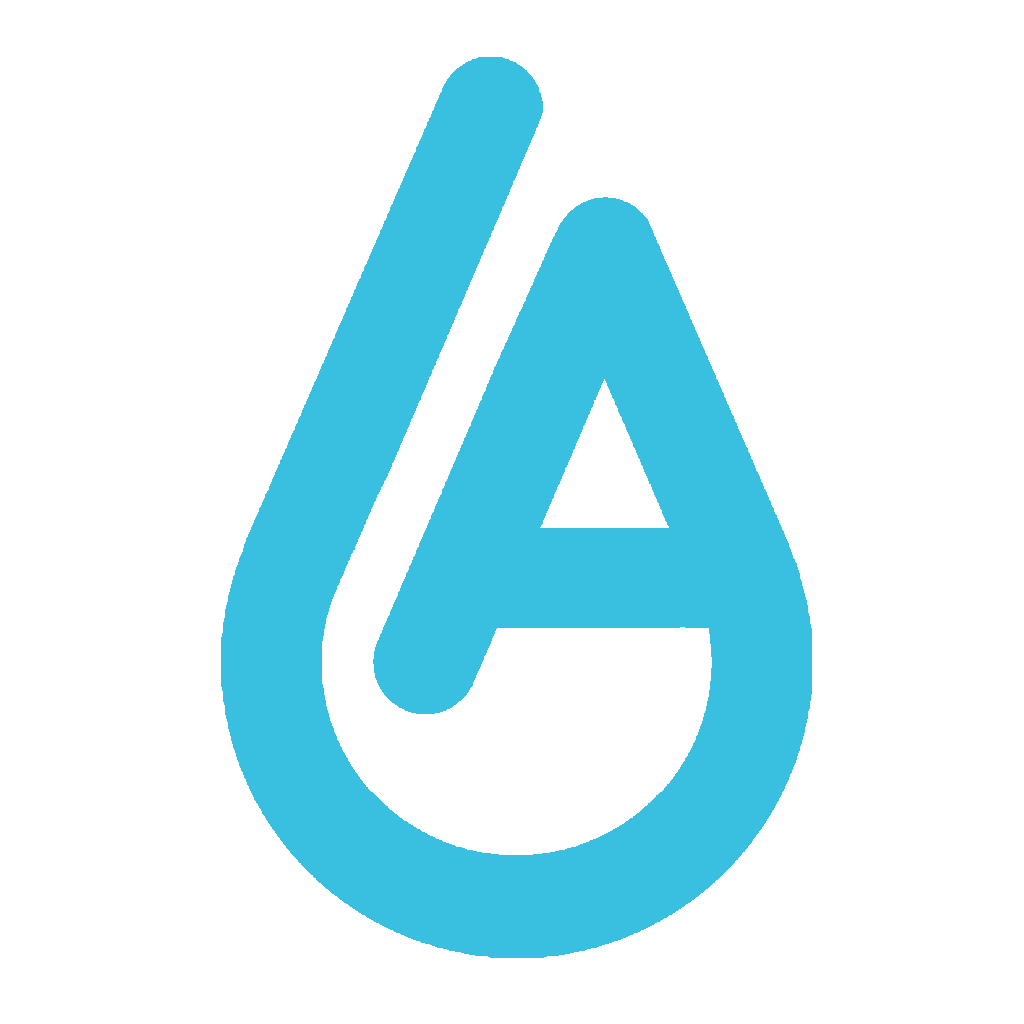
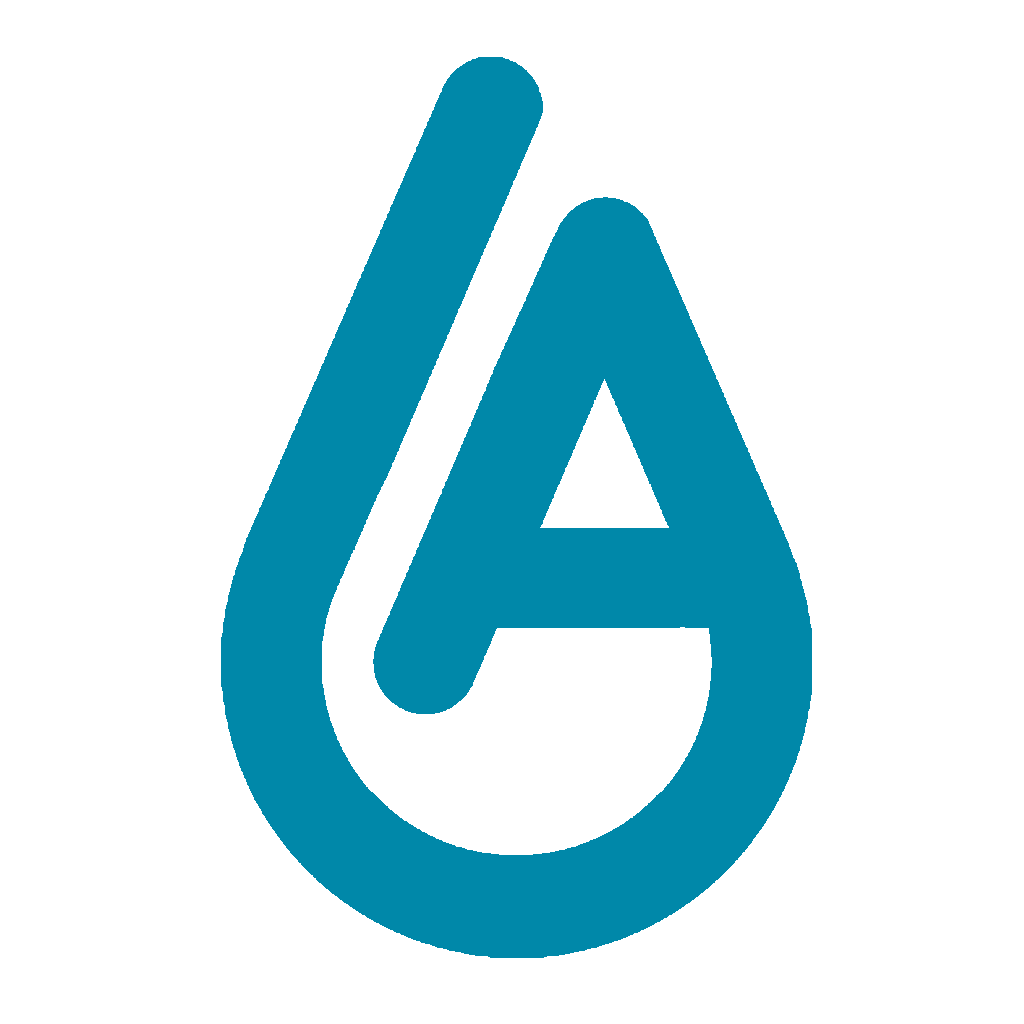
Meta Changes

Changed region(s): [[0.2188, 0.0312, 0.8125, 0.9375]]

diff --git a/index.html b/index.html
@@ -4,103 +4,31 @@
     <link href="https://fonts.googleapis.com/css?family=Montserrat:400,500,700" rel="stylesheet" type="text/css" />
     <link href="/assets/styles/style.css" rel="stylesheet" type="text/css" />
     <meta name="viewport" content="initial-scale=1.0, user-scalable=1" />
-  
+
     <link rel="icon" type="image/png" href="https://aquabot.info/assets/images/32x32.png" />
-    <link
-      rel="icon"
-      type="image/png"
-      sizes="32x32"
-      href="https://aquabot.info/assets/images/32x32.png"
-    />
-    <link
-      rel="icon"
-      type="image/png"
-      sizes="16x16"
-      href="https://aquabot.info/assets/images/16x16.png"
-    />
-    <link
-      rel="apple-touch-icon"
-      sizes="256x256"
-      href="https://aquabot.info/assets/images/256x256.png"
-    />
+    <link rel="icon" type="image/png" sizes="32x32" href="https://aquabot.info/assets/images/32x32.png"/>
+    <link rel="icon" type="image/png" sizes="16x16" href="https://aquabot.info/assets/images/16x16.png"/>
+    <link rel="apple-touch-icon" sizes="256x256" href="https://aquabot.info/assets/images/256x256.png"/>
+
     <title>Aqua Bot Home</title>
-    <meta name="theme-color" content="#ffcbe4" />
+    <meta name="keywords" content="discord, bot, python">
+    <meta name="robots" content="index, follow">
+    <meta name="theme-color" content="#0088A9" />
     <meta name="apple-mobile-web-app-title" content="Aqua Bot Home" />
+
     <meta property="og:title" content="Aqua Bot Home" />
     <meta property="og:url" content="https://aquabot.info" />
     <meta property="og:type" content="website" />
-    <meta
-      property="og:image"
-      content="https://aquabot.info/assets/images/1024x1024.png"
-    />
-    <meta
-      property="og:description"
-      content="Aqua is the best multipurpose Discord bot, that can make your server great."
-    />
-    <meta
-      name="description"
-      content="Aqua is the best multipurpose Discord bot, that can make your server great."
-    />
+    <meta property="og:image" content="https://aquabot.info/assets/images/1024x1024.png"/>
+    <meta property="og:description" content="Aqua is the best multipurpose Discord bot, that can make your server great."/>
+    
+    <meta name="description" content="Aqua is the best multipurpose Discord bot, that can make your server great."/>
     <meta name="robots" content="index, follow" />
     <meta name="http-equiv" content="X-Robots-Tag : index, follow" />
     <meta name="googlebot" content="index, follow" />
-    <meta name="google" content="nositelinkssearchbox" />
+    
     <meta name="twitter:card" content="summary" />
-    <meta name="twitter:title" content="Aqua Bot" />
-    <meta
-      name="twitter:description"
-      content="Aqua is the best multipurpose Discord bot, that can make your server great."
-    />
-    <meta
-      name="twitter:image"
-      content="https://aquabot.info/assets/images/1024x1024.png"
-    />
-
-    <!-- <link rel="icon" type="image/png" href="https://aquabot.info/assets/images/32x32.png" />
-    <link
-      rel="icon"
-      type="image/png"
-      sizes="32x32"
-      href="https://aquabot.info/assets/images/32x32.png"
-    />
-    <link
-      rel="icon"
-      type="image/png"
-      sizes="16x16"
-      href="https://aquabot.info/assets/images/16x16.png"
-    />
-    <link
-      rel="apple-touch-icon"
-      sizes="256x256"
-      href="https://aquabot.info/assets/images/256x256.png"
-    />
-
-    !-- HTML Meta Tags --
-    <title>Aqua Bot Home</title>
-    <meta name="description" content="Aqua is the best multipurpose Discord bot, that can make your server great.">
-
-    !-- Google / Search Engine Tags --
-    <meta itemprop="name" content="Aqua Bot Home">
-    <meta itemprop="color" content="#0088A9">
-    <meta itemprop="description" content="Aqua is the best multipurpose Discord bot, that can make your server great.">
-    <meta itemprop="image" content="http://aquabot.info/assets/images/32x32.png">
-
-    !-- Facebook Meta Tags --
-    <meta property="og:url" content="https://aquabot.info">
-    <meta property="og:type" content="website">
-    <meta property="og:title" content="Aqua Bot Home">
-    <meta property="og:color" content="#0088A9">
-    <meta property="og:description" content="Aqua is the best multipurpose Discord bot, that can make your server great.">
-    <meta property="og:image" content="http://aquabot.info/assets/images/32x32.png">
-
-    !-- Twitter Meta Tags --
-    <meta name="twitter:card" content="Aqua is the best multipurpose Discord bot, that can make your server great.">
-    <meta name="twitter:title" content="Aqua Bot Home">
-    <meta name="twitter:color" content="#0088A9">
-    <meta name="twitter:description" content="Aqua is the best multipurpose Discord bot, that can make your server great.">
-    <meta name="twitter:image" content="http://aquabot.info/assets/images/32x32.png"> -->
   </head>
-
 
 <!---POPUP--->
   <style media="screen">

diff --git a/commands.html b/commands.html
@@ -9,48 +9,28 @@
     <meta name="viewport" content="initial-scale=1.0, user-scalable=1" />
 
     <link rel="icon" type="image/png" href="https://aquabot.info/assets/images/32x32.png" />
-    <link
-      rel="icon"
-      type="image/png"
-      sizes="32x32"
-      href="https://aquabot.info/assets/images/32x32.png"
-    />
-    <link
-      rel="icon"
-      type="image/png"
-      sizes="16x16"
-      href="https://aquabot.info/assets/images/16x16.png"
-    />
-    <link
-      rel="apple-touch-icon"
-      sizes="256x256"
-      href="https://aquabot.info/assets/images/256x256.png"
-    />
+    <link rel="icon" type="image/png" sizes="32x32" href="https://aquabot.info/assets/images/32x32.png"/>
+    <link rel="icon" type="image/png" sizes="16x16" href="https://aquabot.info/assets/images/16x16.png"/>
+    <link rel="apple-touch-icon" sizes="256x256" href="https://aquabot.info/assets/images/256x256.png"/>
 
-    <!-- HTML Meta Tags -->
     <title>Aqua Bot Commands</title>
-    <meta name="description" content="We have tons of features to help make your Discord server better. View all of the commands for the bot on this page.">
+    <meta name="keywords" content="discord, bot, python">
+    <meta name="robots" content="index, follow">
+    <meta name="theme-color" content="#0088A9" />
+    <meta name="apple-mobile-web-app-title" content="Aqua Bot Commands" />
 
-    <!-- Google / Search Engine Tags -->
-    <meta itemprop="name" content="Aqua Bot Commands">
-    <meta itemprop="color" content="#0088A9">
-    <meta itemprop="description" content="We have tons of features to help make your Discord server better. View all of the commands for the bot on this page.">
-    <meta itemprop="image" content="http://aquabot.info/assets/images/32x32.png">
-
-    <!-- Facebook Meta Tags -->
-    <meta property="og:url" content="https://aquabot.info/commands">
-    <meta property="og:type" content="website">
-    <meta property="og:title" content="Aqua Bot Commands">
-    <meta property="og:color" content="#0088A9">
-    <meta property="og:description" content="We have tons of features to help make your Discord server better. View all of the commands for the bot on this page.">
-    <meta property="og:image" content="http://aquabot.info/assets/images/32x32.png">
-
-    <!-- Twitter Meta Tags -->
-    <meta name="twitter:card" content="summary_large_image">
-    <meta name="twitter:title" content="Aqua Bot Commands">
-    <meta name="twitter:color" content="#0088A9">
-    <meta name="twitter:description" content="We have tons of features to help make your Discord server better. View all of the commands for the bot on this page.">
-    <meta name="twitter:image" content="http://aquabot.info/assets/images/32x32.png">
+    <meta property="og:title" content="Aqua Bot Commands" />
+    <meta property="og:url" content="https://aquabot.info/commands" />
+    <meta property="og:type" content="website" />
+    <meta property="og:image" content="https://aquabot.info/assets/images/1024x1024.png"/>
+    <meta property="og:description" content="We have tons of features to help make your Discord server better. View all of the commands for the bot on this page."/>
+    
+    <meta name="description" content="We have tons of features to help make your Discord server better. View all of the commands for the bot on this page."/>
+    <meta name="robots" content="index, follow" />
+    <meta name="http-equiv" content="X-Robots-Tag : index, follow" />
+    <meta name="googlebot" content="index, follow" />
+    
+    <meta name="twitter:card" content="summary" />
   </head>
   <script
     src="https://code.jquery.com/jquery-3.5.1.min.js"

diff --git a/terms-and-conditions.html b/terms-and-conditions.html
@@ -5,49 +5,28 @@
     <meta name="viewport" content="initial-scale=1.0, user-scalable=1" />
 
     <link rel="icon" type="image/png" href="https://aquabot.info/assets/images/32x32.png" />
-    <link
-      rel="icon"
-      type="image/png"
-      sizes="32x32"
-      href="https://aquabot.info/assets/images/32x32.png"
-    />
-    <link
-      rel="icon"
-      type="image/png"
-      sizes="16x16"
-      href="https://aquabot.info/assets/images/16x16.png"
-    />
-    <link
-      rel="apple-touch-icon"
-      sizes="256x256"
-      href="https://aquabot.info/assets/images/256x256.png"
-    />
+    <link rel="icon" type="image/png" sizes="32x32" href="https://aquabot.info/assets/images/32x32.png"/>
+    <link rel="icon" type="image/png" sizes="16x16" href="https://aquabot.info/assets/images/16x16.png"/>
+    <link rel="apple-touch-icon" sizes="256x256" href="https://aquabot.info/assets/images/256x256.png"/>
 
-    <!-- HTML Meta Tags -->
-    <title>Aqua Bot Terms & Conditions</title>
-    <meta name="description" content="View the terms & conditions policy for the Aqua Bot Discord bot.">
-    <meta name="theme-color" content="#0088A9">
+    <title>Aqua Bot Terms & Conditionsy</title>
+    <meta name="keywords" content="discord, bot, python">
+    <meta name="robots" content="index, follow">
+    <meta name="theme-color" content="#0088A9" />
+    <meta name="apple-mobile-web-app-title" content="Aqua Bot Terms & Conditions" />
 
-    <!-- Google / Search Engine Tags -->
-    <meta itemprop="name" content="Aqua Bot Terms & Conditions">
-    <meta itemprop="color" content="#0088A9">
-    <meta itemprop="description" content="View the terms & conditions policy for the Aqua Bot Discord bot.">
-    <meta itemprop="image" content="http://aquabot.info/assets/images/32x32.png">
-
-    <!-- Facebook Meta Tags -->
-    <meta property="og:url" content="https://aquabot.info">
-    <meta property="og:type" content="website">
-    <meta property="og:title" content="Aqua Bot Terms & Conditions">
-    <meta property="og:color" content="#0088A9">
-    <meta property="og:description" content="View the terms & conditions policy for the Aqua Bot Discord bot.">
-    <meta property="og:image" content="http://aquabot.info/assets/images/32x32.png">
-
-    <!-- Twitter Meta Tags -->
-    <meta name="twitter:card" content="summary_large_image">
-    <meta name="twitter:title" content="Aqua Bot Terms & Conditions">
-    <meta name="twitter:color" content="#0088A9">
-    <meta name="twitter:description" content="View the terms & conditions policy for the Aqua Bot Discord bot.">
-    <meta name="twitter:image" content="http://aquabot.info/assets/images/32x32.png">
+    <meta property="og:title" content="Aqua Bot Terms & Conditions" />
+    <meta property="og:url" content="https://aquabot.info/terms-and-conditions" />
+    <meta property="og:type" content="website" />
+    <meta property="og:image" content="https://aquabot.info/assets/images/1024x1024.png"/>
+    <meta property="og:description" content="View the terms & conditions policy for the Aqua Bot Discord bot."/>
+    
+    <meta name="description" content="View the terms & conditions policy for the Aqua Bot Discord bot."/>
+    <meta name="robots" content="index, follow" />
+    <meta name="http-equiv" content="X-Robots-Tag : index, follow" />
+    <meta name="googlebot" content="index, follow" />
+    
+    <meta name="twitter:card" content="summary" />
   </head>
   <style>
     .Section {

diff --git a/privacy-policy.html b/privacy-policy.html
@@ -5,48 +5,28 @@
     <meta name="viewport" content="initial-scale=1.0, user-scalable=1" />
 
     <link rel="icon" type="image/png" href="https://aquabot.info/assets/images/32x32.png" />
-    <link
-      rel="icon"
-      type="image/png"
-      sizes="32x32"
-      href="https://aquabot.info/assets/images/32x32.png"
-    />
-    <link
-      rel="icon"
-      type="image/png"
-      sizes="16x16"
-      href="https://aquabot.info/assets/images/16x16.png"
-    />
-    <link
-      rel="apple-touch-icon"
-      sizes="256x256"
-      href="https://aquabot.info/assets/images/256x256.png"
-    />
+    <link rel="icon" type="image/png" sizes="32x32" href="https://aquabot.info/assets/images/32x32.png"/>
+    <link rel="icon" type="image/png" sizes="16x16" href="https://aquabot.info/assets/images/16x16.png"/>
+    <link rel="apple-touch-icon" sizes="256x256" href="https://aquabot.info/assets/images/256x256.png"/>
 
-    <!-- HTML Meta Tags -->
     <title>Aqua Bot Privacy Policy</title>
-    <meta name="description" content="View the privacy policy for the Aqua Bot Discord bot.">
+    <meta name="keywords" content="discord, bot, python">
+    <meta name="robots" content="index, follow">
+    <meta name="theme-color" content="#0088A9" />
+    <meta name="apple-mobile-web-app-title" content="Aqua Bot Privacy Policy" />
 
-    <!-- Google / Search Engine Tags -->
-    <meta itemprop="name" content="Aqua Bot Privacy Policy">
-    <meta itemprop="color" content="#0088A9">
-    <meta itemprop="description" content="View the privacy policy for the Aqua Bot Discord bot.">
-    <meta itemprop="image" content="http://aquabot.info/assets/images/32x32.png">
-
-    <!-- Facebook Meta Tags -->
-    <meta property="og:url" content="https://aquabot.info/privacy-policy">
-    <meta property="og:type" content="website">
-    <meta property="og:title" content="Aqua Bot Privacy Policy">
-    <meta property="og:color" content="#0088A9">
-    <meta property="og:description" content="View the privacy policy for the Aqua Bot Discord bot.">
-    <meta property="og:image" content="http://aquabot.info/assets/images/32x32.png">
-
-    <!-- Twitter Meta Tags -->
-    <meta name="twitter:card" content="summary_large_image">
-    <meta name="twitter:title" content="Aqua Bot Privacy Policy">
-    <meta name="twitter:color" content="#0088A9">
-    <meta name="twitter:description" content="View the privacy policy for the Aqua Bot Discord bot.">
-    <meta name="twitter:image" content="http://aquabot.info/assets/images/32x32.png">
+    <meta property="og:title" content="Aqua Bot Privacy Policy" />
+    <meta property="og:url" content="https://aquabot.info/privacy-policy" />
+    <meta property="og:type" content="website" />
+    <meta property="og:image" content="https://aquabot.info/assets/images/1024x1024.png"/>
+    <meta property="og:description" content="View the privacy policy for the Aqua Bot Discord bot."/>
+    
+    <meta name="description" content="View the privacy policy for the Aqua Bot Discord bot."/>
+    <meta name="robots" content="index, follow" />
+    <meta name="http-equiv" content="X-Robots-Tag : index, follow" />
+    <meta name="googlebot" content="index, follow" />
+    
+    <meta name="twitter:card" content="summary" />
   </head>
   <style>
     .Section {
